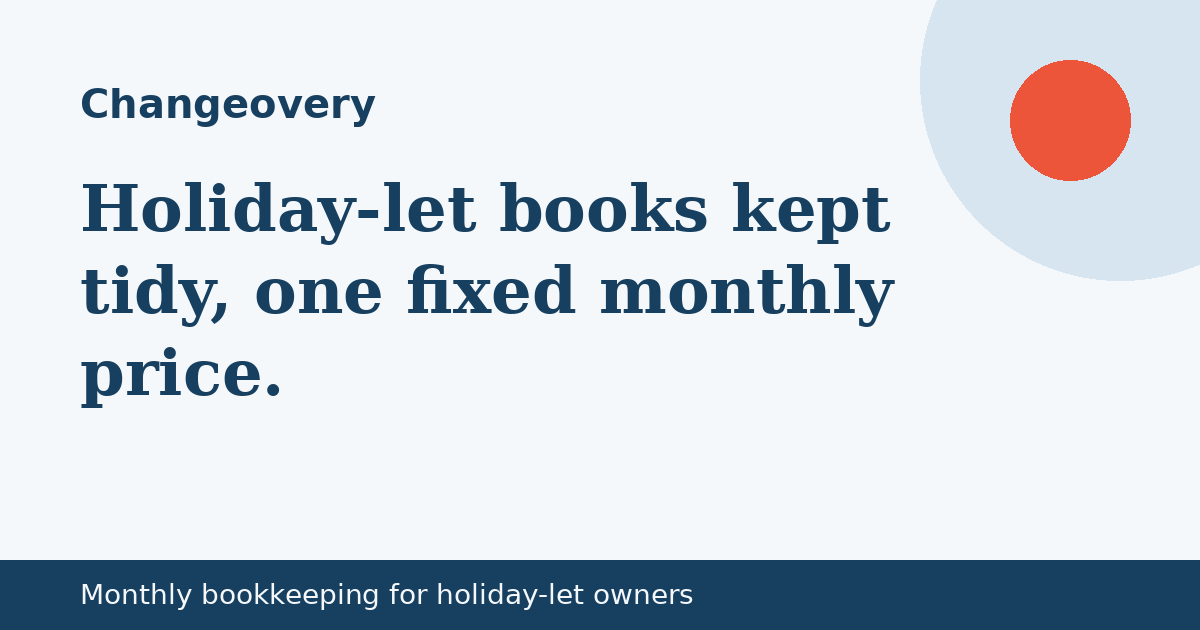
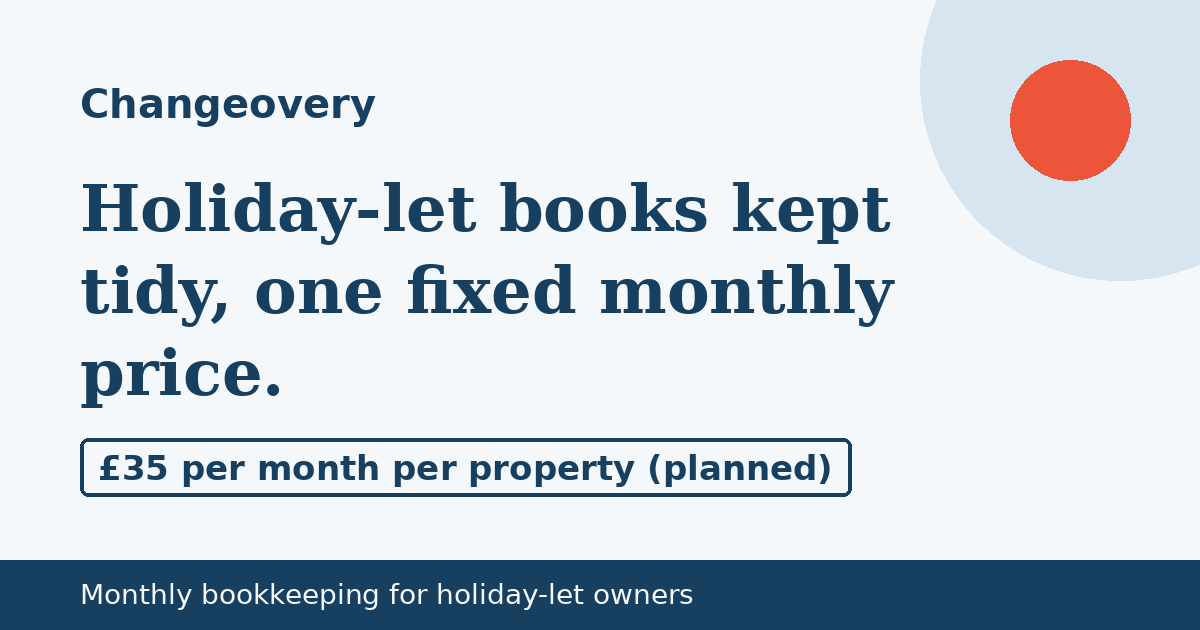
Publish site 2026-10-21 08:26 BST

Changed region(s): [[0.0617, 0.6937, 0.7092, 0.8143]]

diff --git a/index.html b/index.html
@@ -3,7 +3,7 @@
 <head>
 <meta charset="utf-8">
 <meta name="viewport" content="width=device-width, initial-scale=1">
-<meta http-equiv="Content-Security-Policy" content="default-src 'self'; img-src 'self' data: https://localreplyloop.goatcounter.com; style-src 'self'; script-src 'self'; font-src 'self'; connect-src 'self' https://formsubmit.co; form-action 'self'; base-uri 'self'; object-src 'none'">
+<meta http-equiv="Content-Security-Policy" content="default-src 'self'; img-src 'self' data: https://localreplyloop.goatcounter.com; style-src 'self'; script-src 'self'; font-src 'self'; connect-src 'self'; form-action 'self'; base-uri 'self'; object-src 'none'">
 <meta name="referrer" content="strict-origin-when-cross-origin">
 <title>Changeovery: Holiday-let books kept tidy, one fixed monthly price</title>
 <meta name="description" content="Fixed-price monthly bookkeeping for holiday lets: bookings income from platform statements, cleaning and changeover costs, and a tidy year-end pack.">
@@ -21,21 +21,14 @@
 </head>
 <body>
 <a class="skip" href="#main">Skip to content</a>
-<header class="band"><div class="wrap top"><a class="brand" href="./"><svg viewBox="0 0 64 64" aria-hidden="true" width="34" height="34"><rect width="64" height="64" rx="4" fill="#ED553B"/><text x="32" y="43" text-anchor="middle" font-family="Georgia, serif" font-weight="700" font-size="30" fill="#111111">C</text><circle cx="50" cy="50" r="6" fill="#F4F8FB"/></svg>Changeovery</a><nav aria-label="Primary"><a href="#how">How it works</a><a href="#faq">Questions</a><a href="#contact">Contact</a></nav></div><section class="hero"><div class="wrap"><div><span class="draft">Draft: not yet available. Enquiries welcome.</span><br><span class="eyebrow">Service · draft offer · Monthly bookkeeping for holiday-let owners</span><h1>Holiday-let books kept tidy, one fixed monthly price.</h1><p class="lede">Send us your platform statements and receipts each month. Changeovery records bookings, fees, cleaning and changeover costs, and hands your accountant a clean year-end pack.</p><div class="ctas"><a class="btn" href="#contact" data-cta="hero">Make an enquiry</a><a class="btn ghost" href="#faq" data-cta="hero-secondary">Questions</a></div></div><div class="art"><svg viewBox="0 0 400 400" role="img" aria-label="Decorative pattern" class="motif" preserveAspectRatio="xMidYMid slice"><path d="M 40 380 A 160 160 0 0 1 360 380" fill="none" stroke="#F4F8FB" stroke-width="18" stroke-opacity="1.00"/><path d="M 70 380 A 130 130 0 0 1 330 380" fill="none" stroke="#ED553B" stroke-width="18" stroke-opacity="0.85"/><path d="M 100 380 A 100 100 0 0 1 300 380" fill="none" stroke="#F4F8FB" stroke-width="18" stroke-opacity="0.70"/><path d="M 130 380 A 70 70 0 0 1 270 380" fill="none" stroke="#F4F8FB" stroke-width="18" stroke-opacity="0.55"/><path d="M 160 380 A 40 40 0 0 1 240 380" fill="none" stroke="#F4F8FB" stroke-width="18" stroke-opacity="0.40"/></svg></div></div></section></header>
+<header class="band"><div class="wrap top"><a class="brand" href="./"><svg viewBox="0 0 64 64" aria-hidden="true" width="34" height="34"><rect width="64" height="64" rx="4" fill="#ED553B"/><text x="32" y="43" text-anchor="middle" font-family="Georgia, serif" font-weight="700" font-size="30" fill="#111111">C</text><circle cx="50" cy="50" r="6" fill="#F4F8FB"/></svg>Changeovery</a><nav aria-label="Primary"><a href="#how">How it works</a><a href="#faq">Questions</a><a href="#contact">Contact</a></nav></div></header>
 <main id="main">
+<div class="band"><section class="hero"><div class="wrap"><div><span class="draft">Draft: not yet available. Enquiries welcome.</span><br><span class="eyebrow">Service · draft offer · Monthly bookkeeping for holiday-let owners</span><h1>Holiday-let books kept tidy, one fixed monthly price.</h1><p class="lede">Send us your platform statements and receipts each month. Changeovery records bookings, fees, cleaning and changeover costs, and hands your accountant a clean year-end pack.</p><div class="ctas"><a class="btn" href="#contact" data-cta="hero">Make an enquiry</a><a class="btn ghost" href="#faq" data-cta="hero-secondary">Questions</a></div></div><figure class="art"><svg viewBox="0 0 400 400" aria-hidden="true" focusable="false" class="motif"><path d="M40 210 L140 120 L240 210Z" fill="#ED553B"/><rect x="60" y="210" width="160" height="140" rx="4" fill="#F4F8FB"/><rect x="122" y="280" width="36" height="70" rx="4" fill="#D7E5F0"/><rect x="80" y="230" width="30" height="30" rx="3" fill="#173F5F"/><rect x="170" y="230" width="30" height="30" rx="3" fill="#173F5F"/><rect x="250" y="80" width="120" height="270" rx="14" fill="#F4F8FB"/><rect x="258" y="88" width="104" height="254" rx="8" fill="#173F5F"/><rect x="270" y="110" width="80" height="8" rx="4" fill="#ED553B"/><rect x="270" y="144" width="80" height="8" rx="4" fill="#D7E5F0"/><rect x="270" y="178" width="80" height="8" rx="4" fill="#D7E5F0"/><rect x="270" y="212" width="80" height="8" rx="4" fill="#ED553B"/><rect x="270" y="246" width="80" height="8" rx="4" fill="#D7E5F0"/><rect x="270" y="280" width="80" height="8" rx="4" fill="#D7E5F0"/><rect x="270" y="314" width="80" height="8" rx="4" fill="#ED553B"/></svg><figcaption class="fine">Illustrative</figcaption></figure></div></section></div>
 <section class="tint" id="how"><div class="wrap"><span class="eyebrow">How it works</span><h2>Fixed-price monthly bookkeeping for holiday lets: bookings income from platform statements, cleaning and changeover costs, and a tidy year-end pack for your accountant.</h2><div class="steps"><div class="step"><h3>Share statements</h3><p>Airbnb, Booking.com or your own booking records.</p></div><div class="step"><h3>We record everything</h3><p>Income, platform fees, cleaning and repairs.</p></div><div class="step"><h3>Year-end pack</h3><p>Ready for your accountant.</p></div></div></div></section>
-<section><div class="wrap"><span class="eyebrow">Who it is for</span><h2>For owners of one to three UK holiday lets who manage bookings themselves.</h2><div class="points"><div class="point"><h3>Fixed monthly price</h3><p>Per property, no hourly billing.</p></div><div class="point"><h3>Accountant-ready</h3><p>We prepare the records; your accountant does the tax.</p></div><div class="point"><h3>Draft offer</h3><p>Not taking clients yet; enquiries welcome.</p></div></div></div></section>
+<section><div class="wrap"><span class="eyebrow">Who it is for</span><h2>For owners of one to three UK holiday lets who manage bookings themselves.</h2><div class="points"><div class="point"><h3>Fixed monthly price</h3><p>Per property, no hourly billing.</p></div><div class="point"><h3>Accountant-ready</h3><p>We prepare the records; your accountant does the tax.</p></div><div class="point"><h3>Draft offer</h3><p>Not taking clients until we&#x27;re registered with an anti-money-laundering supervisor; enquiries welcome.</p></div></div></div></section>
 <section class="tint" id="price"><div class="wrap"><span class="eyebrow">Planned price</span><div class="pricebox"><p class="price">£35 per month per property (planned)</p><p>This is a draft offer and is not taking orders yet. Nothing can be bought on this website.</p></div></div></section>
-<section id="faq"><div class="wrap"><span class="eyebrow">Questions</span><h2>Common questions</h2><details><summary>Do you give tax advice?</summary><p>No. We keep the books; your accountant advises on tax.</p></details><details><summary>Is this available now?</summary><p>It&#x27;s a draft offer. Enquire and we&#x27;ll reply about timing.</p></details><details><summary>Which platforms?</summary><p>Any that give you a statement or export.</p></details><p class="fine" style="margin-top:18px">Changeovery provides bookkeeping only. It does not provide tax or accountancy advice.</p></div></section>
-<section class="tint" id="contact"><div class="wrap contact-grid"><div><span class="eyebrow">Contact</span><h2>Make an enquiry</h2><p>Changeovery is new and run by one person. Every message is read and answered by email, usually within two working days.</p><p>Email: <a href="mailto:localreply+changeovery@agentmail.to">localreply+changeovery@agentmail.to</a></p></div><form class="form" data-contact data-formsubmit="localreply+changeovery@agentmail.to" data-email="localreply+changeovery@agentmail.to" data-subject="Changeovery enquiry" novalidate>
-<div><label for="f-name">Your name</label><input id="f-name" name="name" autocomplete="name" required></div>
-<div><label for="f-email">Email</label><input id="f-email" name="email" type="email" autocomplete="email" required></div>
-<div><label for="f-plan">About</label><select id="f-plan" name="plan"><option value="One property">One property</option><option value="Two or three properties">Two or three properties</option><option value="A question">A question</option></select></div>
-<div><label for="f-message">Message</label><textarea id="f-message" name="message"></textarea></div>
-<p class="hint">Your message goes to our inbox through FormSubmit (formsubmit.co), our form-delivery provider. If that fails, your own email app opens instead. See our <a href="privacy.html">privacy notice</a>.</p>
-<button class="btn" type="submit">Make an enquiry</button>
-<p class="form-status" role="status" aria-live="polite"></p>
-</form></div></section>
+<section id="faq"><div class="wrap"><span class="eyebrow">Questions</span><h2>Common questions</h2><details><summary>Do you give tax advice?</summary><p>No. We keep the books; your accountant advises on tax.</p></details><details><summary>Is this available now?</summary><p>It&#x27;s a draft offer. Enquiries are received, but we can’t promise a reply or a timeframe yet.</p></details><details><summary>Which platforms?</summary><p>Any that give you a statement or export.</p></details><p class="fine" style="margin-top:18px">Changeovery provides bookkeeping only. It does not provide tax or accountancy advice.</p></div></section>
+<section class="tint" id="contact"><div class="wrap contact-grid"><div><span class="eyebrow">Contact</span><h2>Make an enquiry</h2><p>Changeovery is new and run by one person. Messages go to our inbox. We can’t promise a reply or a timeframe yet.</p><p>Email: <a href="mailto:localreply+changeovery@agentmail.to">localreply+changeovery@agentmail.to</a></p></div><div class="form contact-mail"><p><a class="btn" href="mailto:localreply+changeovery@agentmail.to?subject=%5BChangeovery%5D%20Enquiry" data-cta="enquire">Email Changeovery</a></p><p class="hint">This opens your own email app. Nothing is sent through this website. See our <a href="privacy.html">privacy notice</a>.</p></div></div></section>
 </main><footer><div class="wrap"><p>Operated by a UK sole trader trading as Changeovery. Contact: localreply+changeovery@agentmail.to. Postal address available on written request.</p>
 <p><a href="privacy.html">Privacy</a><a href="terms.html">Terms</a><a href="./#contact">Contact</a></p>
 <p class="fine">Changeovery provides bookkeeping only. It does not provide tax or accountancy advice.</p></div></footer>

diff --git a/assets/site.css b/assets/site.css
@@ -1,7 +1,7 @@
 @font-face{font-family:'Source Serif 4';font-weight:700;font-style:normal;font-display:swap;src:url(fonts/source-serif-4-latin-700-normal.woff2) format('woff2')}
 @font-face{font-family:'IBM Plex Sans';font-weight:400;font-style:normal;font-display:swap;src:url(fonts/ibm-plex-sans-latin-400-normal.woff2) format('woff2')}
 @font-face{font-family:'IBM Plex Sans';font-weight:600;font-style:normal;font-display:swap;src:url(fonts/ibm-plex-sans-latin-600-normal.woff2) format('woff2')}
-:root{--ink:#173F5F;--paper:#F4F8FB;--acc:#ED553B;--acc-text:#C32C12;--on-acc:#111111;--soft:#D7E5F0;--on-ink:#F4F8FB;--r:22px;--br:999px;--head:'Source Serif 4', Georgia, serif;--body:'IBM Plex Sans', system-ui, sans-serif}
+:root{--ink:#173F5F;--paper:#F4F8FB;--acc:#ED553B;--acc-text:#B92A11;--on-acc:#111111;--acc-btn:#ED553B;--soft:#D7E5F0;--on-ink:#F4F8FB;--r:22px;--br:999px;--head:'Source Serif 4', Georgia, serif;--body:'IBM Plex Sans', system-ui, sans-serif}
 *,*::before,*::after{box-sizing:border-box}html{scroll-behavior:smooth}@media (prefers-reduced-motion:reduce){html{scroll-behavior:auto}*{transition:none!important}}
 body{margin:0;font-family:var(--body);color:var(--ink);background:var(--paper);line-height:1.6;font-size:17px;-webkit-font-smoothing:antialiased}
 h1,h2,h3{font-family:var(--head);line-height:1.15;margin:0 0 .5em;letter-spacing:-.01em}h1{font-size:clamp(2.1rem,5vw,3.6rem)}h2{font-size:clamp(1.5rem,3vw,2.2rem)}h3{font-size:1.15rem}
@@ -10,11 +10,11 @@ p{margin:0 0 1em}a{color:var(--ink);text-decoration-color:var(--acc);text-underl
 :focus-visible{outline:3px solid var(--acc);outline-offset:2px}
 .top{display:flex;align-items:center;justify-content:space-between;padding:18px 0;gap:16px}.brand{display:flex;align-items:center;gap:10px;font-family:var(--head);font-weight:700;font-size:1.25rem;text-decoration:none}
 .top nav a{margin-left:18px;font-size:.95rem;text-decoration:none}.top nav a:hover{text-decoration:underline}
-.btn{display:inline-block;background:var(--acc);color:var(--on-acc);padding:13px 22px;border-radius:var(--br);font-weight:600;text-decoration:none;border:2px solid var(--acc);cursor:pointer;font:inherit;font-weight:600}
-.btn:hover{filter:brightness(.94)}.btn.ghost{background:transparent;color:var(--ink);border-color:var(--ink)}
+.btn{display:inline-block;background:var(--acc-btn);color:var(--on-acc);padding:13px 22px;border-radius:var(--br);font-weight:600;text-decoration:none;border:2px solid var(--acc-btn);cursor:pointer;font:inherit;font-weight:600}
+.btn:hover{filter:none;box-shadow:inset 0 0 0 2px currentColor}.btn.ghost{background:transparent;color:var(--ink);border-color:var(--ink)}
 .eyebrow{display:inline-block;font-size:.8rem;letter-spacing:.12em;text-transform:uppercase;font-weight:600;color:var(--acc-text);margin-bottom:12px}
 .hero{padding:48px 0 64px}.hero .lede{font-size:1.15rem;max-width:40em}.ctas{display:flex;gap:12px;flex-wrap:wrap;margin-top:22px}
-.motif{width:100%;height:auto;max-width:420px;display:block}
+.motif{width:100%;height:auto;max-width:420px;display:block}.art{margin:0}
 .draft{display:inline-block;background:var(--soft);border:1px dashed var(--ink);padding:3px 10px;border-radius:999px;font-size:.82rem;font-weight:600;margin-bottom:14px}
 section{padding:56px 0}.tint{background:var(--soft)}
 .steps{display:grid;grid-template-columns:repeat(auto-fit,minmax(220px,1fr));gap:22px;counter-reset:s}
@@ -25,11 +25,11 @@ section{padding:56px 0}.tint{background:var(--soft)}
 details{border-bottom:1px solid color-mix(in srgb,var(--ink) 18%,transparent);padding:14px 0}summary{cursor:pointer;font-weight:600}details p{margin-top:10px}
 .form{display:grid;gap:14px;max-width:620px}.form label{font-weight:600;font-size:.95rem;display:block;margin-bottom:4px}
 .form input,.form textarea,.form select{width:100%;padding:12px;border:1.5px solid color-mix(in srgb,var(--ink) 40%,transparent);border-radius:calc(var(--r)/2);font:inherit;background:#fff;color:#111}
-.form textarea{min-height:120px}.hint,.fine{font-size:.88rem;opacity:.85}.form-status{font-weight:600}
-.contact-grid{display:grid;grid-template-columns:1fr 1.2fr;gap:40px}@media(max-width:800px){.contact-grid{grid-template-columns:1fr}.top nav{display:none}}
+.form textarea{min-height:120px}.hint,.fine{font-size:.88rem}.form-status{font-weight:600}
+.contact-grid{display:grid;grid-template-columns:1fr 1.2fr;gap:40px}@media(max-width:800px){.contact-grid{grid-template-columns:1fr}.top nav a:not([href="#contact"]){display:none}.top nav a{margin-left:0;padding:10px 0;font-weight:600}}
 footer{padding:36px 0 48px;font-size:.9rem;border-top:1px solid color-mix(in srgb,var(--ink) 15%,transparent)}footer a{margin-right:14px}
 .tool{background:var(--paper);border:2px solid var(--ink);border-radius:var(--r);padding:26px;max-width:640px}.tool .row{display:grid;grid-template-columns:1fr 140px;gap:12px;align-items:center;margin-bottom:10px}
 .tool input[type=number]{padding:10px;border:1.5px solid var(--ink);border-radius:8px;font:inherit;width:100%}.result{margin-top:16px;padding:16px;background:var(--soft);border-radius:calc(var(--r)/2);min-height:3em}
 .check h3{margin-top:18px}.check label{display:flex;gap:10px;align-items:flex-start;padding:6px 0}.check input{width:20px;height:20px;accent-color:var(--acc)}
 .legal{max-width:760px}.legal h2{font-size:1.3rem;margin-top:1.6em}
-.band{background:var(--ink);color:var(--on-ink)}.band a{color:var(--on-ink)}.band .btn.ghost{color:var(--on-ink);border-color:var(--on-ink)}.band .eyebrow{color:var(--on-ink)}.hero .wrap{display:grid;grid-template-columns:1.2fr .8fr;gap:40px;align-items:center}@media(max-width:800px){.hero .wrap{grid-template-columns:1fr}}.band .draft{color:var(--ink)}
+.band{background:var(--ink);color:var(--on-ink)}.band a{color:var(--on-ink)}.band .btn.ghost{color:var(--on-ink);border-color:var(--on-ink)}.band .btn:not(.ghost){color:var(--on-acc)}.band .eyebrow{color:var(--on-ink)}.hero .wrap{display:grid;grid-template-columns:1.2fr .8fr;gap:40px;align-items:center}@media(max-width:800px){.hero .wrap{grid-template-columns:1fr}}.band .draft{color:var(--ink)}

diff --git a/privacy.html b/privacy.html
@@ -3,7 +3,7 @@
 <head>
 <meta charset="utf-8">
 <meta name="viewport" content="width=device-width, initial-scale=1">
-<meta http-equiv="Content-Security-Policy" content="default-src 'self'; img-src 'self' data: https://localreplyloop.goatcounter.com; style-src 'self'; script-src 'self'; font-src 'self'; connect-src 'self' https://formsubmit.co; form-action 'self'; base-uri 'self'; object-src 'none'">
+<meta http-equiv="Content-Security-Policy" content="default-src 'self'; img-src 'self' data: https://localreplyloop.goatcounter.com; style-src 'self'; script-src 'self'; font-src 'self'; connect-src 'self'; form-action 'self'; base-uri 'self'; object-src 'none'">
 <meta name="referrer" content="strict-origin-when-cross-origin">
 <title>Privacy notice | Changeovery</title>
 <meta name="description" content="Privacy notice for Changeovery.">
@@ -21,13 +21,13 @@
 </head>
 <body>
 <a class="skip" href="#main">Skip to content</a>
-<header><div class="wrap top"><a class="brand" href="./"><svg viewBox="0 0 64 64" aria-hidden="true" width="34" height="34"><rect width="64" height="64" rx="4" fill="#173F5F"/><text x="32" y="43" text-anchor="middle" font-family="Georgia, serif" font-weight="700" font-size="30" fill="#F4F8FB">C</text><circle cx="50" cy="50" r="6" fill="#ED553B"/></svg>Changeovery</a><nav aria-label="Primary"><a href="#how">How it works</a><a href="#faq">Questions</a><a href="#contact">Contact</a></nav></div></header><main id="main"><section><div class="wrap legal"><h1>Privacy notice</h1><p class="fine">Last updated 19 October 2026</p>
+<header><div class="wrap top"><a class="brand" href="./"><svg viewBox="0 0 64 64" aria-hidden="true" width="34" height="34"><rect width="64" height="64" rx="4" fill="#173F5F"/><text x="32" y="43" text-anchor="middle" font-family="Georgia, serif" font-weight="700" font-size="30" fill="#F4F8FB">C</text><circle cx="50" cy="50" r="6" fill="#ED553B"/></svg>Changeovery</a><nav aria-label="Primary"><a href="#how">How it works</a><a href="#faq">Questions</a><a href="#contact">Contact</a></nav></div></header><main id="main"><section><div class="wrap legal"><h1>Privacy notice</h1><p class="fine">Last updated 20 October 2026</p>
 <p><span>Operated by a UK sole trader trading as Changeovery. Contact: localreply+changeovery@agentmail.to. Postal address available on written request.</span> We are the controller for the personal data described here. For anything in this notice, email <a href="mailto:localreply+changeovery@agentmail.to">localreply+changeovery@agentmail.to</a> with “Changeovery” in the subject line.</p>
-<h2>What we collect</h2><p>If you use the form or email us, we receive your name, email address, anything you write in your message and, if you give it, your postcode or town. We use it only to reply to you and, if you ask for it, to deal with your enquiry.</p>
+<h2>What we collect</h2><p>If you email us, we receive your name, email address, anything you write in your message and, if you give it, your postcode or town. We use it only to reply to you and, if you ask for it, to deal with your enquiry.</p>
 <h2>Lawful basis</h2><p>Replying to an enquiry you send us is in our legitimate interests, or steps taken at your request before any agreement (UK GDPR Article 6(1)(f) and 6(1)(b)).</p>
-<h2>Who processes it for us</h2><p>FormSubmit (formsubmit.co) delivers form messages to our inbox. AgentMail (agentmail.to) hosts the inbox. GitHub Pages hosts this website and may log technical data such as IP addresses for security. Some of these providers process data outside the UK under their own safeguards.</p>
+<h2>Who processes it for us</h2><p>AgentMail (agentmail.to) hosts our inbox. GitHub Pages hosts this website and may log technical data such as IP addresses for security. Some of these providers process data outside the UK under their own safeguards.</p>
 <h2>Cookies and analytics</h2><p>We set no cookies. We count page views with GoatCounter, which records the page, referrer and screen size but no cookies and no personal profile. It does not run if your browser sends Do Not Track or Global Privacy Control.</p>
-<h2>How long we keep it</h2><p>We keep enquiry emails for up to 12 months after our last contact, unless you become a customer, in which case we keep records as the law requires.</p>
+<h2>How long we keep it</h2><p>We delete enquiry and order data 30 days after our last contact or after delivery. We keep only the basic order record that tax law requires.</p>
 <h2>Your rights</h2><p>You can ask for a copy of your data, ask us to correct or delete it, or object to how we use it, by emailing <a href="mailto:localreply+changeovery@agentmail.to">localreply+changeovery@agentmail.to</a>. You can complain to the Information Commissioner's Office (ico.org.uk).</p></div></section></main><footer><div class="wrap"><p>Operated by a UK sole trader trading as Changeovery. Contact: localreply+changeovery@agentmail.to. Postal address available on written request.</p>
 <p><a href="privacy.html">Privacy</a><a href="terms.html">Terms</a><a href="./#contact">Contact</a></p>
 <p class="fine">Changeovery provides bookkeeping only. It does not provide tax or accountancy advice.</p></div></footer>

diff --git a/_shared/kit.js b/_shared/kit.js
@@ -69,24 +69,8 @@
     form.addEventListener("submit", function (e) {
       e.preventDefault();
       if (!form.reportValidity()) return;
-      // 2026-10-14: if data-formsubmit is set, deliver via FormSubmit.co straight to the brand inbox; mailto stays as fallback.
-      var fsTok = form.getAttribute("data-formsubmit");
-      if (fsTok && !form.__fsFallback && window.fetch) {
-        var fd = new FormData(form), payload = {}, st = form.querySelector("[role=status]");
-        fd.forEach(function (v, k) { if (k !== "consent") payload[k] = String(v); });
-        payload._subject = (form.getAttribute("data-subject") || "Enquiry") + (payload.business ? " — " + payload.business : "");
-        if (payload.email) payload._replyto = payload.email;
-        payload._captcha = "false"; payload._template = "table";
-        fetch("https://formsubmit.co/ajax/" + fsTok, { method: "POST", headers: { "Content-Type": "application/json", "Accept": "application/json" }, body: JSON.stringify(payload) })
-          .then(function (r) { return r.json(); })
-          .then(function (j) {
-            if (String(j.success) !== "true") throw new Error("fs");
-            if (st) { st.textContent = "Thanks" + (payload.name ? ", " + payload.name.trim().split(" ")[0] : "") + " — your message has been sent. We reply by email."; st.classList.add("is-visible"); }
-            track("contact_sent", { plan: payload.plan || null }); form.reset();
-          })
-          .catch(function () { form.__fsFallback = true; if (st) { st.textContent = "Sending didn't work — opening your email app instead."; st.classList.add("is-visible"); } form.requestSubmit ? form.requestSubmit() : form.dispatchEvent(new Event("submit", { cancelable: true })); });
-        return;
-      }
+      // The form only composes an email
+      // in the visitor's own mail app; nothing is sent through any third-party form processor.
       var to = form.getAttribute("data-email") || cfg.contactEmail;
       var data = new FormData(form);
       var name = (data.get("name") || "").toString().trim();

diff --git a/_shared/kit.css b/_shared/kit.css
@@ -73,6 +73,7 @@ p { margin: 0; }
 .mobile-nav.is-open { display: block; }
 .mobile-nav a { display: flex; align-items: center; min-height: 52px; padding: 0 1.25rem; color: var(--text); text-decoration: none; font-weight: 500; border-bottom: 1px solid var(--line); }
 .mobile-nav .btn { margin: 1rem 1.25rem 1.25rem; display: flex; }
+.mobile-nav .btn--primary, .mobile-nav .btn--primary:hover { color: #fff; }
 @media (min-width: 60rem) {
   .nav { display: flex; }
   .site-header .header-cta { display: inline-flex; margin-left: .75rem; }
@@ -329,3 +330,8 @@ html[data-paused="true"] [data-cta="checkout"] { pointer-events: none; opacity: 
 @media (min-width: 60rem) { .pricing.pricing--single { grid-template-columns: 1fr; } }
 .tier-more { max-width: 64rem; margin: 1.25rem auto 0; text-align: center; color: var(--muted); font-size: .9375rem; line-height: 1.6; }
 .tier-more a { font-weight: 600; white-space: nowrap; }
+
+.site-header .header-link { display: inline-flex; color: var(--ink); font-weight: 600; text-decoration: underline; text-underline-offset: .2em; min-height: 44px; align-items: center; padding: 0 .25rem; }
+@media (max-width: 59.99rem) { .site-header .header-link { display: none; } }
+.btn-row .text-link { display: inline-flex; align-items: center; min-height: 48px; padding: 0 .25rem; color: var(--ink); font-weight: 600; text-decoration: underline; text-underline-offset: .2em; }
+.btn-row .text-link:hover, .site-header .header-link:hover { color: var(--accent-strong); }

diff --git a/404.html b/404.html
@@ -3,7 +3,7 @@
 <head>
 <meta charset="utf-8">
 <meta name="viewport" content="width=device-width, initial-scale=1">
-<meta http-equiv="Content-Security-Policy" content="default-src 'self'; img-src 'self' data: https://localreplyloop.goatcounter.com; style-src 'self'; script-src 'self'; font-src 'self'; connect-src 'self' https://formsubmit.co; form-action 'self'; base-uri 'self'; object-src 'none'">
+<meta http-equiv="Content-Security-Policy" content="default-src 'self'; img-src 'self' data: https://localreplyloop.goatcounter.com; style-src 'self'; script-src 'self'; font-src 'self'; connect-src 'self'; form-action 'self'; base-uri 'self'; object-src 'none'">
 <meta name="referrer" content="strict-origin-when-cross-origin">
 <title>Page not found | Changeovery</title>
 <meta name="description" content="Page not found for Changeovery.">

diff --git a/terms.html b/terms.html
@@ -3,7 +3,7 @@
 <head>
 <meta charset="utf-8">
 <meta name="viewport" content="width=device-width, initial-scale=1">
-<meta http-equiv="Content-Security-Policy" content="default-src 'self'; img-src 'self' data: https://localreplyloop.goatcounter.com; style-src 'self'; script-src 'self'; font-src 'self'; connect-src 'self' https://formsubmit.co; form-action 'self'; base-uri 'self'; object-src 'none'">
+<meta http-equiv="Content-Security-Policy" content="default-src 'self'; img-src 'self' data: https://localreplyloop.goatcounter.com; style-src 'self'; script-src 'self'; font-src 'self'; connect-src 'self'; form-action 'self'; base-uri 'self'; object-src 'none'">
 <meta name="referrer" content="strict-origin-when-cross-origin">
 <title>Terms of use | Changeovery</title>
 <meta name="description" content="Terms of use for Changeovery.">
